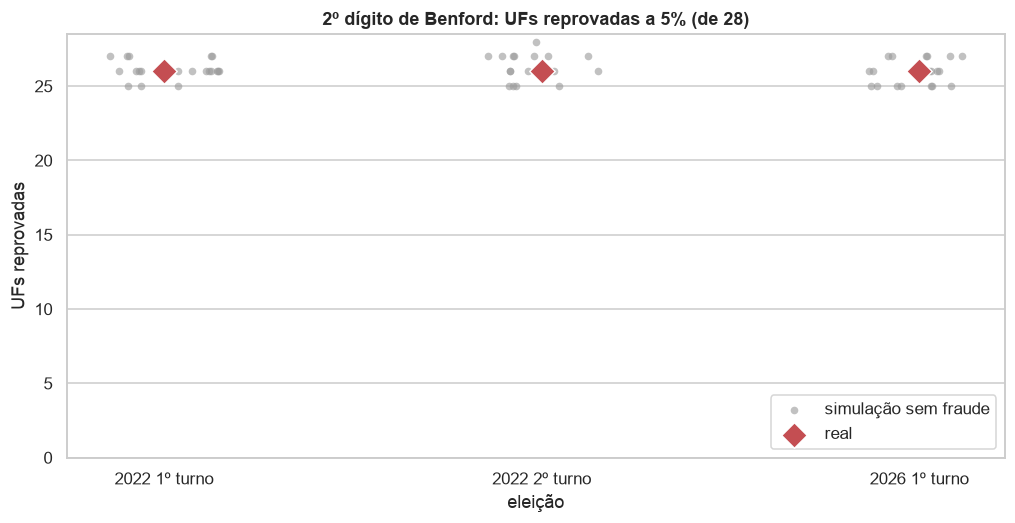
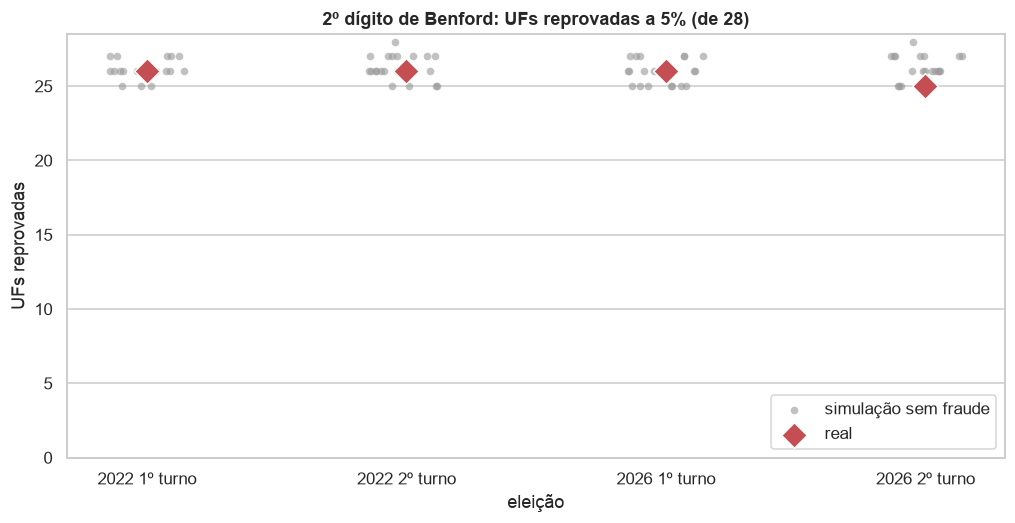
Relatório e README com o 2º turno de 2026
Os números e gráficos de cada ficha passam a cobrir os dois turnos. Duas fichas
novas: as seções fora da previsão entre turnos (votaram quase igual nos dois; o
modelo é que não acompanha seções que destoam do município) e o saldo das seções
marcadas no 2º turno (quase todo nas seções agregadas, que votam mais em Lula
nos dois turnos). Figuras de Benford e seções extremas regeneradas.

diff --git a/docs/index.html b/docs/index.html
@@ -118,7 +118,7 @@ a { color: var(--accent); }
   <div class="stack">
     <span class="eyebrow">Eleição 2026 · boletins de urna e emendas parlamentares</span>
     <h1>O que os dados mostram, em linguagem simples</h1>
-    <p class="lede">Este projeto fez duas investigações com dados públicos. A primeira olhou os boletins de urna do 1º turno
+    <p class="lede">Este projeto fez duas investigações com dados públicos. A primeira olhou os boletins de urna dos dois turnos
       de 2026, seção por seção, atrás de sinais de fraude. A segunda cruzou as emendas parlamentares com o resultado dos
       deputados federais. Aqui estão as hipóteses testadas, o que se encontrou e o que ainda não dá para afirmar.</p>
   </div>
@@ -142,33 +142,43 @@ a { color: var(--accent); }
   <section class="section" aria-labelledby="p1">
     <div class="stack">
       <span class="eyebrow">Parte 1</span>
-      <h2 id="p1">As urnas do 1º turno de 2026</h2>
+      <h2 id="p1">As urnas de 2026</h2>
       <p>O TSE publica um <strong>boletim de urna</strong> (BU) por seção eleitoral: quantos eleitores estavam aptos,
-        quantos votaram e quantos votos cada candidato teve. São quase 500 mil seções. Todos os testes também foram
-        rodados na eleição de 2022, que serve de régua: um padrão só é estranho se fugir do que 2022 já mostrava.</p>
+        quantos votaram e quantos votos cada candidato teve. São quase 500 mil seções em cada turno. Todos os testes
+        rodaram nos dois turnos de 2026 e também na eleição de 2022, que serve de régua: um padrão só é estranho se
+        fugir do que 2022 já mostrava.</p>
     </div>
 
+    <span class="label">1º turno, 4 de outubro</span>
     <div class="margin-strip" role="group" aria-label="Números de referência do 1º turno">
       <div><span class="small">Diferença entre 1º e 2º colocados</span><span class="big">2.224.965</span><span class="small">votos (Flávio Bolsonaro à frente de Lula)</span></div>
       <div><span class="small">Seções que teriam de ser anuladas para inverter a ordem</span><span class="big">13.453</span><span class="small">as mais favoráveis ao 1º colocado</span></div>
       <div><span class="small">Seções sinalizadas por algum teste</span><span class="big">17.268</span><span class="small">no conjunto, pendem para o 2º colocado</span></div>
     </div>
-    <p class="small">Ou seja: anular todas as seções que algum teste marcou <strong>aumentaria</strong> a vantagem de quem
-      ficou em primeiro, em vez de reduzi-la.</p>
+    <span class="label">2º turno, 25 de outubro</span>
+    <div class="margin-strip" role="group" aria-label="Números de referência do 2º turno">
+      <div><span class="small">Diferença entre os candidatos</span><span class="big">4.430.191</span><span class="small">votos (Lula, 51,8%, à frente de Flávio Bolsonaro, 48,2%)</span></div>
+      <div><span class="small">Seções que teriam de ser anuladas para inverter o resultado</span><span class="big">23.770</span><span class="small">as mais favoráveis a Lula</span></div>
+      <div><span class="small">Seções sinalizadas por algum teste</span><span class="big">21.983</span><span class="small">no conjunto, pendem para Lula, mas valem 22% da diferença</span></div>
+    </div>
+    <p class="small">No 1º turno, anular todas as seções que algum teste marcou <strong>aumentaria</strong> a vantagem de
+      quem ficou em primeiro. No 2º turno elas pendem para o vencedor, mas mesmo anulando todas ele continuaria à frente,
+      e quase todo esse saldo tem uma explicação simples (ficha "As seções marcadas no 2º turno", mais abaixo).</p>
 
     <article class="card">
       <header><h3>As contas dos boletins fecham?</h3><span class="verdict v-ok">Descartada</span></header>
       <p><span class="label">Hipótese</span><br>Algumas urnas registram mais votos do que eleitores, ou somas que não batem.</p>
       <p><span class="label">O que olhamos</span><br>Em cada BU, se votos de todos os candidatos, brancos e nulos somam o
         total de comparecimento, e se o comparecimento cabe no número de eleitores aptos.</p>
-      <p class="takeaway"><strong>Nenhuma seção</strong> com conta errada, em 2026 e nos dois turnos de 2022.</p>
+      <p class="takeaway"><strong>Nenhuma seção</strong> com conta errada, nos dois turnos de 2026 e nos dois de 2022.</p>
     </article>
 
     <article class="card">
       <header><h3>A Lei de Benford acusa fraude?</h3><span class="verdict v-ok">Descartada</span></header>
       <p><span class="label">Hipótese</span><br>A Lei de Benford diz com que frequência cada algarismo aparece em números
         "naturais". Se os votos fugirem dela, teriam sido inventados.</p>
-      <p><span class="label">O que olhamos</span><br>O teste do 2º dígito "reprova" 26 das 28 unidades da federação. Para
+      <p><span class="label">O que olhamos</span><br>O teste do 2º dígito "reprova" 26 das 28 unidades da federação no
+        1º turno e 25 no 2º. Para
         saber se isso significa algo, simulamos no computador uma eleição <strong>sem nenhuma fraude</strong>, com os
         mesmos tamanhos de seção e a mesma variação de votos, e aplicamos o mesmo teste.</p>
       <div class="chart" aria-label="UFs reprovadas no teste de Benford, real e simulado">
@@ -177,7 +187,8 @@ a { color: var(--accent); }
         <div data-bars='{"max":28,"rows":[
           {"label":"2022, 1º turno","bars":[[26,"s1","26"],[25.85,"s2","25,9"]]},
           {"label":"2022, 2º turno","bars":[[26,"s1","26"],[26.4,"s2","26,4"]]},
-          {"label":"2026, 1º turno","bars":[[26,"s1","26"],[26.25,"s2","26,3"]]}]}'></div>
+          {"label":"2026, 1º turno","bars":[[26,"s1","26"],[26.25,"s2","26,3"]]},
+          {"label":"2026, 2º turno","bars":[[25,"s1","25"],[26.5,"s2","26,5"]]}]}'></div>
       </div>
       <p class="takeaway">A eleição simulada, limpa por construção, reprova tantas UFs quanto a real. O teste reage ao tamanho
         das seções e à forma como os votos se distribuem, não a fraude. Por isso ele não serve para auditar eleições
@@ -189,13 +200,14 @@ a { color: var(--accent); }
       <p><span class="label">Hipótese</span><br>Seções no mesmo prédio (a mesma escola, por exemplo) recebem eleitores
         parecidos. Uma seção que vota muito diferente das outras do prédio pode ter sido manipulada.</p>
       <p><span class="label">O que olhamos</span><br>Comparamos o voto em Lula em cada seção com o das outras seções do
-        mesmo local. Por acaso, esperaríamos cerca de 1 seção extrema no país; encontramos <strong>110</strong>,
-        77 com mais votos em Lula e 33 com menos. Em 2022 foram 156 e 143, com a mesma inclinação.</p>
+        mesmo local. Por acaso, esperaríamos cerca de 1 seção extrema no país; no 1º turno encontramos <strong>110</strong>,
+        77 com mais votos em Lula e 33 com menos. No 2º turno, de novo 110: 75 e 35. Em 2022 foram 156 e 143, com a
+        mesma inclinação.</p>
       <p>O padrão tem uma marca: as seções extremas são, em geral, a <strong>última seção do prédio</strong>, a mais nova.
         Quando um local enche, o TSE cria uma seção nova e coloca nela quem acabou de tirar ou transferir o título, um
         público mais jovem. O cadastro do TSE confirma isso.</p>
       <div class="chart" aria-label="Fatia das seções comuns e das seções extremas">
-        <div class="chart-title">Quanto cada tipo de seção pesa entre todas e entre as extremas</div>
+        <div class="chart-title">Quanto cada tipo de seção pesa entre todas e entre as extremas (1º turno)</div>
         <div class="legend"><span><i class="sw" style="background:var(--accent-2)"></i>entre todas as seções</span><span><i class="sw" style="background:var(--accent)"></i>entre as 110 seções extremas</span></div>
         <div data-bars='{"max":100,"unit":"%","rows":[
           {"label":"É a última seção do prédio","bars":[[19,"s2","19%"],[57,"s1","57%"]]},
@@ -205,33 +217,35 @@ a { color: var(--accent); }
         Jovens votam diferente, e isso explica por que essas seções destoam. Sobram 41 seções extremas fora desse grupo,
         28 com mais e 13 com menos votos em Lula. É um desequilíbrio pequeno, que pode ser acaso. Essas seções são
         as candidatas a conferência manual (ata da mesa, BU impresso). Mesmo todas somadas, valem cerca de 0,3% da diferença
-        entre os candidatos.</p>
+        entre os candidatos. No 2º turno a marca se repete: 57% das extremas são a última seção do prédio.</p>
     </article>
 
     <article class="card">
       <header><h3>Comparecimento alto demais</h3><span class="verdict v-info">Explicada</span></header>
       <p><span class="label">Hipótese</span><br>Seções onde quase todo mundo votou (95% ou mais) podem ter votos
         "completados" por alguém.</p>
-      <p><span class="label">O que olhamos</span><br>Há 538 seções assim. Comparando cada uma com as outras seções do mesmo
-        município, Lula tem cerca de 5,6 pontos a mais nelas. Repetimos para 2022: lá a diferença foi de 8,4 e 6,1 pontos.</p>
+      <p><span class="label">O que olhamos</span><br>No 1º turno há 538 seções assim. Comparando cada uma com as outras
+        seções do mesmo município, Lula tem cerca de 5,6 pontos a mais nelas. No 2º turno são 620, com 7,3 pontos a mais.
+        Repetimos para 2022: lá a diferença foi de 8,4 e 6,1 pontos.</p>
       <div class="chart" aria-label="Diferença do voto em Lula nas seções de comparecimento muito alto">
         <div class="chart-title">Pontos percentuais a mais para Lula nas seções com comparecimento ≥ 95%</div>
         <div data-bars='{"max":10,"rows":[
           {"label":"2022, 1º turno","bars":[[8.36,"s0","8,4"]]},
           {"label":"2022, 2º turno","bars":[[6.12,"s0","6,1"]]},
-          {"label":"2026, 1º turno","bars":[[5.64,"s1","5,6"]]}]}'></div>
+          {"label":"2026, 1º turno","bars":[[5.64,"s1","5,6"]]},
+          {"label":"2026, 2º turno","bars":[[7.33,"s1","7,3"]]}]}'></div>
       </div>
-      <p class="takeaway">O padrão já existia em 2022, com a mesma direção, e diminuiu em 2026. Não é algo novo desta eleição.
-        Anulá-las tiraria votos do 2º colocado e não do 1º.</p>
+      <p class="takeaway">O padrão já existia em 2022, com a mesma direção e tamanho parecido. Não é algo novo desta eleição.
+        No 1º turno, anulá-las tiraria votos do 2º colocado. No 2º, tiraria do vencedor, mas só 0,85% da diferença.</p>
     </article>
 
     <article class="card">
       <header><h3>Outras suspeitas comuns</h3><span class="verdict v-ok">Descartadas</span></header>
       <p><span class="label">Biometria</span><br>Seções com mais gente votando sem a digital não votam diferente das outras
-        do mesmo município (efeito praticamente zero, em 2022 e 2026).</p>
-      <p><span class="label">Horários e urnas</span><br>Nenhuma urna abriu cedo demais, fechou antes das 17h ou emitiu o
-        boletim antes do encerramento. Os poucos casos estranhos (7 urnas carregadas no próprio dia, 2 boletins
-        emitidos mais de 2 horas depois) somam menos de 2 mil votos.</p>
+        do mesmo município (efeito praticamente zero, em 2022 e nos dois turnos de 2026).</p>
+      <p><span class="label">Horários e urnas</span><br>Em nenhum dos dois turnos uma urna abriu cedo demais, fechou antes
+        das 17h ou emitiu o boletim antes do encerramento. Os poucos casos estranhos somam menos de 2 mil votos no 1º turno
+        (7 urnas carregadas no próprio dia, 2 boletins emitidos mais de 2 horas depois) e cerca de 4 mil no 2º (5 e 10).</p>
     </article>
 
     <article class="card">
@@ -243,16 +257,57 @@ a { color: var(--accent); }
         usar, conferimos: nas 499.206 seções, a seção e o número da urna batem com o nosso boletim.</p>
       <p>No Brasil todo, a urna de 2013 deu 2 pontos a menos ao 1º colocado que a média. Mas as urnas não são
         distribuídas ao acaso: cada região recebe um lote. Comparando só urnas do mesmo prédio, a diferença entre os modelos
-        cai para 0,15 ponto, para os dois lados.</p>
+        cai para 0,15 ponto, para os dois lados. No 2º turno o resultado se repete: 2,4 pontos no Brasil todo, 0,17 no
+        mesmo prédio.</p>
       <p class="takeaway">O modelo não muda o voto. O que muda é onde cada modelo foi instalado.</p>
+    </article>
+
+    <article class="card">
+      <header><h3>Seções que mudaram muito de um turno para o outro</h3><span class="verdict v-info">Explicada</span></header>
+      <p><span class="label">Hipótese</span><br>Se alguém mexeu nas urnas do 2º turno, algumas seções dariam ao vencedor
+        muito mais votos do que o 1º turno delas fazia prever.</p>
+      <p><span class="label">O que olhamos</span><br>Um modelo prevê o voto de cada seção no 2º turno a partir do voto dela
+        no 1º e do município. <strong>446 seções</strong> ficam muito longe da previsão, 392 delas com mais votos em Lula.
+        Mas olhando o voto real, quase todas votaram igual nos dois turnos. Em Confresa (MT), por exemplo, uma seção deu
+        296 votos a Lula no 1º turno e 309 no 2º, sem nenhum para o adversário nas duas vezes. São seções que votam muito
+        diferente do próprio município, e o modelo, que se apoia na média do município, não consegue acompanhá-las.</p>
+      <div class="chart" aria-label="Seções em que o voto em Lula entre os finalistas mudou menos de 5 pontos">
+        <div class="chart-title">Seções em que o voto em Lula entre os dois finalistas mudou menos de 5 pontos de um turno ao outro</div>
+        <div class="legend"><span><i class="sw" style="background:var(--accent-2)"></i>todas as seções</span><span><i class="sw" style="background:var(--accent)"></i>as 446 fora da previsão</span></div>
+        <div data-bars='{"max":100,"unit":"%","rows":[
+          {"label":"Votou quase igual nos dois turnos","bars":[[82,"s2","82%"],[90,"s1","90%"]]}]}'></div>
+      </div>
+      <p>Também conferimos as 71 seções em que o comparecimento subiu mais de 15 pontos e as 4.435 (0,9%) que usaram outra
+        urna no 2º turno. Somadas, valem pouco mais de 1% da diferença entre os candidatos.</p>
+      <p class="takeaway">As seções "fora da previsão" votaram como no 1º turno. Quem erra é o modelo, não a urna. Um teste com
+        um 2º turno simulado e limpo também dá esse desequilíbrio.</p>
+    </article>
+
+    <article class="card">
+      <header><h3>As seções marcadas no 2º turno</h3><span class="verdict v-info">Explicada</span></header>
+      <p><span class="label">Hipótese</span><br>No 2º turno, o conjunto de seções que algum teste marcou dá ao vencedor
+        quase 1 milhão de votos a mais que ao adversário. Seria sinal de que as anomalias o favoreceram.</p>
+      <p><span class="label">O que olhamos</span><br>De onde vem esse saldo. Quase todo ele está nas 16.142
+        <strong>seções agregadas</strong>, as que recebem os eleitores de outra seção pequena, unida a ela para a votação.
+        Elas são as mesmas nos dois turnos e votam mais em Lula nos dois: 55% contra 45% das demais no 1º turno, 60%
+        contra 52% no 2º. No 1º turno, eram elas que faziam o conjunto marcado pender para Lula, então o 2º colocado.</p>
+      <div class="chart" aria-label="Parte da diferença do 2º turno que as seções marcadas valem">
+        <div class="chart-title">Parte da diferença de 4,4 milhões de votos que se perderia anulando as seções marcadas</div>
+        <div data-bars='{"max":100,"unit":"%","rows":[
+          {"label":"Todas as 21.983 marcadas","bars":[[22.5,"s1","22,5%"]]},
+          {"label":"Sem as seções agregadas","bars":[[3.8,"s1","3,8%"]]},
+          {"label":"Sem elas e sem as comparações entre turnos","bars":[[1.4,"s1","1,4%"]]}]}'></div>
+      </div>
+      <p class="takeaway">O saldo segue Lula, não o vencedor: está nas mesmas seções e na mesma direção nos dois turnos. Sem
+        as seções agregadas, o que sobra vale menos de 4% da diferença. Mesmo anulando todas as marcadas, o resultado não
+        mudaria.</p>
     </article>
 
     <div class="card">
       <span class="label">Conclusão da parte 1</span>
-      <p>Nenhum teste encontrou algo capaz de mudar o resultado. Os padrões que chamam atenção, como seções que destoam
-        das vizinhas e comparecimento alto, aparecem igualmente em 2022 e têm explicação no perfil do eleitorado. O que
-        sobra é pequeno demais para pesar no resultado e merece apenas conferência manual.</p>
-      <p class="small">O 2º turno ainda não está nesta análise: os boletins são processados assim que o TSE publica todas as UFs.</p>
+      <p>Em nenhum dos dois turnos um teste encontrou algo capaz de mudar o resultado. Os padrões que chamam atenção,
+        como seções que destoam das vizinhas e comparecimento alto, aparecem igualmente em 2022 e têm explicação no perfil
+        do eleitorado. O que sobra é pequeno demais para pesar no resultado e merece apenas conferência manual.</p>
     </div>
   </section>
 

diff --git a/README.md b/README.md
@@ -16,30 +16,37 @@ converte para Parquet e gera notebooks com gráficos e testes de anomalia:
 testadas e o que cada uma concluiu (fonte em [`docs/index.html`](docs/index.html)). Os números são mostrados com o
 teste que os põe em contexto; anomalia estatística indica onde olhar, não prova irregularidade. Alguns resultados:
 
-**Nenhum boletim de urna com conta errada.** Em 2026 e nos dois turnos de 2022, todas as seções têm votos somando o
-comparecimento, e o comparecimento cabe no número de eleitores aptos. Para inverter a ordem do 1º turno de 2026 seria
-preciso anular 13.453 seções. Somadas, as seções que algum teste marcou pendem para o 2º colocado: anulá-las aumentaria a
-vantagem de quem ficou em primeiro.
+**Nenhum boletim de urna com conta errada.** Nos dois turnos de 2026 e nos dois de 2022, todas as seções têm votos
+somando o comparecimento, e o comparecimento cabe no número de eleitores aptos. No 2º turno de 2026, Lula venceu por
+4.430.191 votos (51,8% dos válidos); para inverter o resultado seria preciso anular 23.770 seções. No 1º turno, Flávio
+Bolsonaro ficou 2.224.965 votos à frente, e seriam 13.453 seções.
+
+**As seções que os testes marcam pendem para Lula nos dois turnos, por um motivo só.** No 1º turno, anular todas as
+seções marcadas por algum teste aumentaria a vantagem de quem ficou em primeiro. No 2º, elas dão a Lula, o vencedor, um
+saldo de 997 mil votos (22,5% da diferença). Quase tudo vem das 16.142 seções agregadas, que recebem os eleitores de
+outra seção pequena: são as mesmas nos dois turnos e votam mais em Lula nos dois. Sem elas, o que sobra vale 3,8% da
+diferença. As 446 seções que o modelo entre turnos aponta como "fora da previsão" votaram quase igual nos dois turnos
+(90% mudaram menos de 5 pontos): quem erra é o modelo, que se apoia na média do município.
 
 **O teste de Benford "reprova" até uma eleição sem fraude.** O 2º dígito dos votos foge da Lei de Benford em 26 das 28
-UFs. Mas uma eleição simulada, limpa por construção e com os mesmos tamanhos de seção, reprova o mesmo número. O teste
+UFs no 1º turno de 2026 e em 25 no 2º. Mas uma eleição simulada, limpa por construção e com os mesmos tamanhos de seção, reprova o mesmo número. O teste
 mede a forma da distribuição dos votos, não fraude.
 
-![Gráfico de pontos: em 2022 (1º e 2º turnos) e em 2026, a eleição real reprova o teste de Benford em 26 das 28 UFs, e as eleições simuladas sem fraude reprovam entre 25 e 28, o mesmo patamar](docs/img/benford_simulacao.png)
+![Gráfico de pontos: nos dois turnos de 2022 e de 2026, a eleição real reprova o teste de Benford em 25 ou 26 das 28 UFs, e as eleições simuladas sem fraude reprovam entre 25 e 28, o mesmo patamar](docs/img/benford_simulacao.png)
 
 **O modelo da urna não muda o voto.** As urnas de 2026 são de quatro modelos, de 2013 a 2022. Na média nacional, o voto
 no 1º colocado varia 2,3 pontos entre modelos. Comparando só urnas do mesmo prédio, a diferença cai para 0,15 ponto: ela
-vem de onde cada modelo foi instalado, não do modelo.
+vem de onde cada modelo foi instalado, não do modelo. No 2º turno, 2,4 e 0,17 pontos.
 
 ![Barras por modelo de urna no 1º turno de 2026: no Brasil todo, a urna UE2013 tem 2 pontos a menos de voto em Flávio Bolsonaro que a média; comparada com urnas do mesmo município ou do mesmo local de votação, a diferença é de décimos de ponto, e os outros modelos ficam perto de zero nas três comparações](docs/img/modelo_urna.png)
 
-**As seções que destoam do próprio prédio são as mais novas, com eleitorado mais jovem.** Há cerca de 110 seções que
-votam muito diferente das outras do mesmo local, contra ~1 esperada por acaso. O padrão é igual ao de 2022. 57% delas são
+**As seções que destoam do próprio prédio são as mais novas, com eleitorado mais jovem.** Em cada turno de 2026 há 110
+seções que votam muito diferente das outras do mesmo local, contra ~1 esperada por acaso. O padrão é igual ao de 2022. 57% delas são
 a última seção do prédio, que é só 19% de todas as seções. É nessa seção nova que o TSE coloca quem acabou de tirar ou
 transferir o título. Seções com 10 pontos ou mais de eleitores de 16 a 24 anos a mais que o resto do prédio são 7% do
 total, mas 59% das extremas.
 
-![Barras horizontais: em 2022 e 2026, a última seção de cada prédio tem mais seções extremas que todas as outras seções juntas; em 2022 elas pendem fortemente para Lula, em 2026 para os dois lados](docs/img/secoes_extremas.png)
+![Barras horizontais: nos dois turnos de 2022 e de 2026, a última seção de cada prédio, que é uma em cada cinco, tem mais seções extremas que todas as outras seções juntas; em 2022 elas pendem fortemente para Lula, em 2026 menos](docs/img/secoes_extremas.png)
 
 ![Dispersão: a nuvem de seções normais fica em torno de zero; as seções extremas, em vermelho, aparecem acima e abaixo e se espalham para a direita, onde a seção tem muito mais eleitores de 16 a 24 anos que o resto do prédio](docs/img/secoes_jovens.png)
 
@@ -81,14 +88,16 @@ uv run jupyter lab                # para explorar interativamente
 
 Outras opções: `uv run baixar --listar` mostra o que já foi publicado; `--turno 2`, `--uf SP RJ`.
 
-**2º turno:** o TSE publica o CSV do BU cerca de 1 dia depois de cada turno (o do 1º turno saiu em 05/10). Quando
-`uv run baixar --listar` mostrar o 2º turno, rode:
+**2º turno:** o TSE publica o CSV do BU cerca de 1 dia depois de cada turno (o do 1º turno saiu em 05/10, o do 2º em
+26/10). `scripts/atualizar_2t.sh` confere se as 28 UFs estão no portal e, se estiverem, baixa, processa e reexecuta os
+notebooks:
 
 ```bash
 uv run baixar --turno 2 && uv run processar --turno 2 && uv run python scripts/gerar_notebooks.py --executar
 ```
 
 Os notebooks detectam sozinhos se o 2º turno está disponível. As seções que comparam os dois turnos só rodam quando ele está.
+O download lê o pacote do portal direto (`package_show`): o índice de busca do portal demorou dias para mostrar o 2º turno.
 
 ## Emendas parlamentares × deputados federais
 
